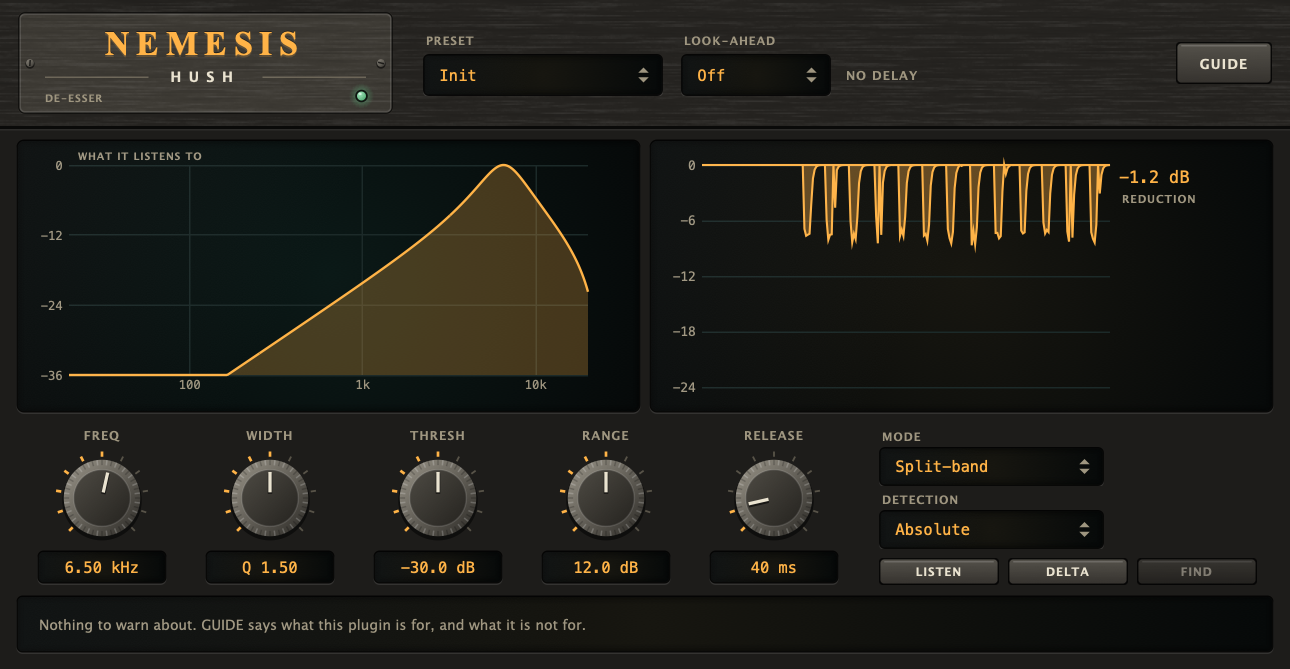
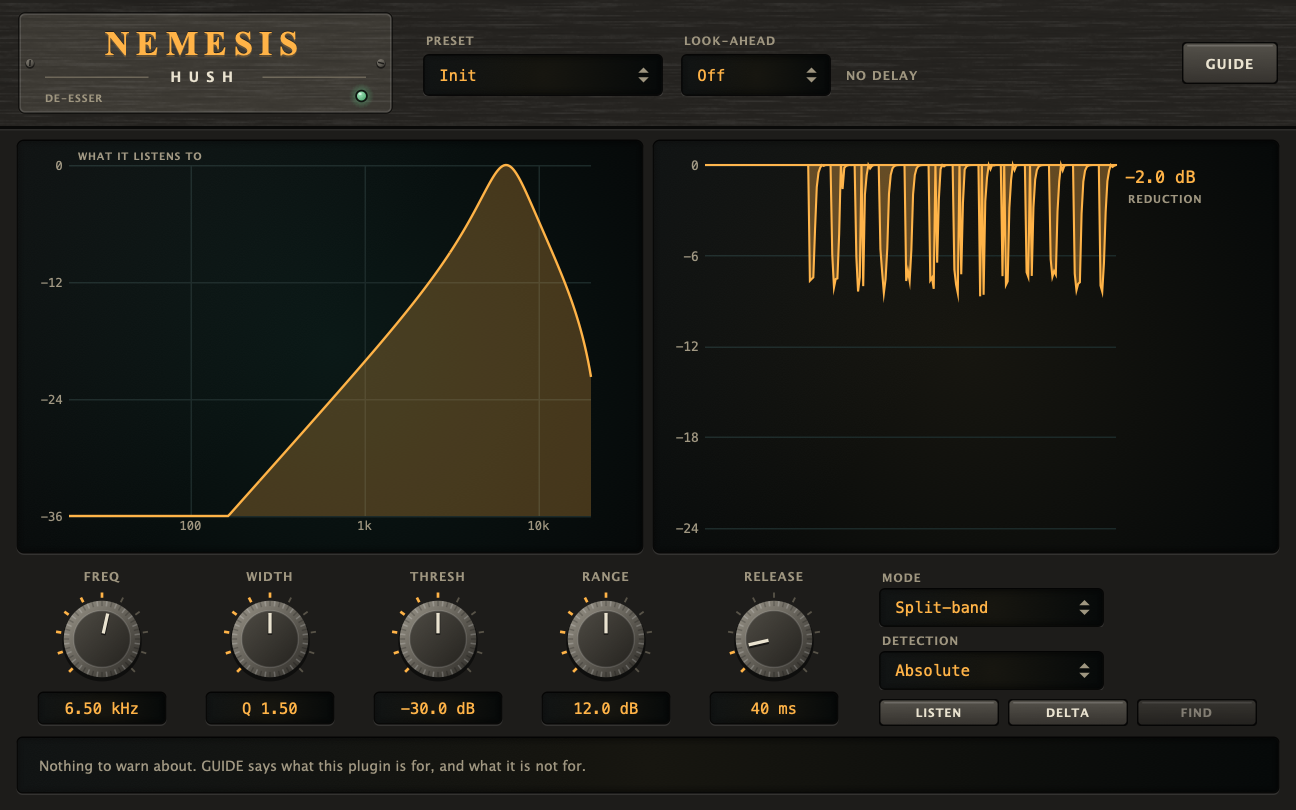
Nemesis: 16:10 window, the display takes the rest of the height
The editor is 864 px wide and 540 px high, from ui::editorHeightFor
(was 860 px wide). The display is what the header, cell row and note
strip leave, instead of a fixed 180 px. UiCheck pins the shape; the
screenshot is regenerated.

diff --git a/plugins/nemesis/Source/PluginEditor.cpp b/plugins/nemesis/Source/PluginEditor.cpp
@@ -2,6 +2,8 @@
 // Copyright (C) 2026 The Pantheon authors
 
 #include "PluginEditor.h"
+
+#include <pantheon/ui/Aspect.h>
 #include <pantheon/ui/FreqAxis.h>
 
 using namespace nemesis;
@@ -10,11 +12,11 @@ namespace hw = ui::hw;
 namespace
 {
 constexpr int headerHeight = 84;
-constexpr int displayHeight = 180;
 constexpr int cellWidth = 112;
 constexpr int cellHeight = 108;
 constexpr int kTimerHz = 30;
-constexpr int kWidth = 860;
+constexpr int kWidth = 864, kHeight = ui::editorHeightFor (kWidth); // 16:10, the kit's shape
+constexpr int displayHeight = kHeight - (headerHeight + 10 + 8 + cellHeight + 8 + ui::kNoteStripHeight + 12); // the display takes what the rest leaves
 }
 
 NemesisEditor::NemesisEditor (NemesisProcessor& p)
@@ -45,7 +47,7 @@ NemesisEditor::NemesisEditor (NemesisProcessor& p)
         findButton.setButtonText ("FINDING");
     };
     startTimerHz (kTimerHz);
-    setSize (kWidth, headerHeight + 10 + displayHeight + 8 + cellHeight + 8 + ui::kNoteStripHeight + 12);
+    setSize (kWidth, kHeight);
 }
 
 NemesisEditor::~NemesisEditor() { setLookAndFeel (nullptr); }

diff --git a/plugins/nemesis/Tests/UiCheck.cpp b/plugins/nemesis/Tests/UiCheck.cpp
@@ -60,6 +60,7 @@ int main()
     {
         std::unique_ptr<juce::AudioProcessorEditor> holder (proc.createEditor());
         auto& editor = ui::innerOf<NemesisEditor> (*holder);
+        check (ui::hasEditorAspect (editor.getWidth(), editor.getHeight()), "the editor is drawn at 16:10, the shape of every plugin");
         editor.setVisible (true);
         check (editor.mode.getNumItems() == kNumModes && editor.detection.getNumItems() == kNumDetections, "the selectors have the parameters' items");
         check (editor.getWidth() > 700 && editor.release.getRight() < editor.mode.getX() && editor.listen.getBottom() < editor.getHeight(), "the controls fit the window");
